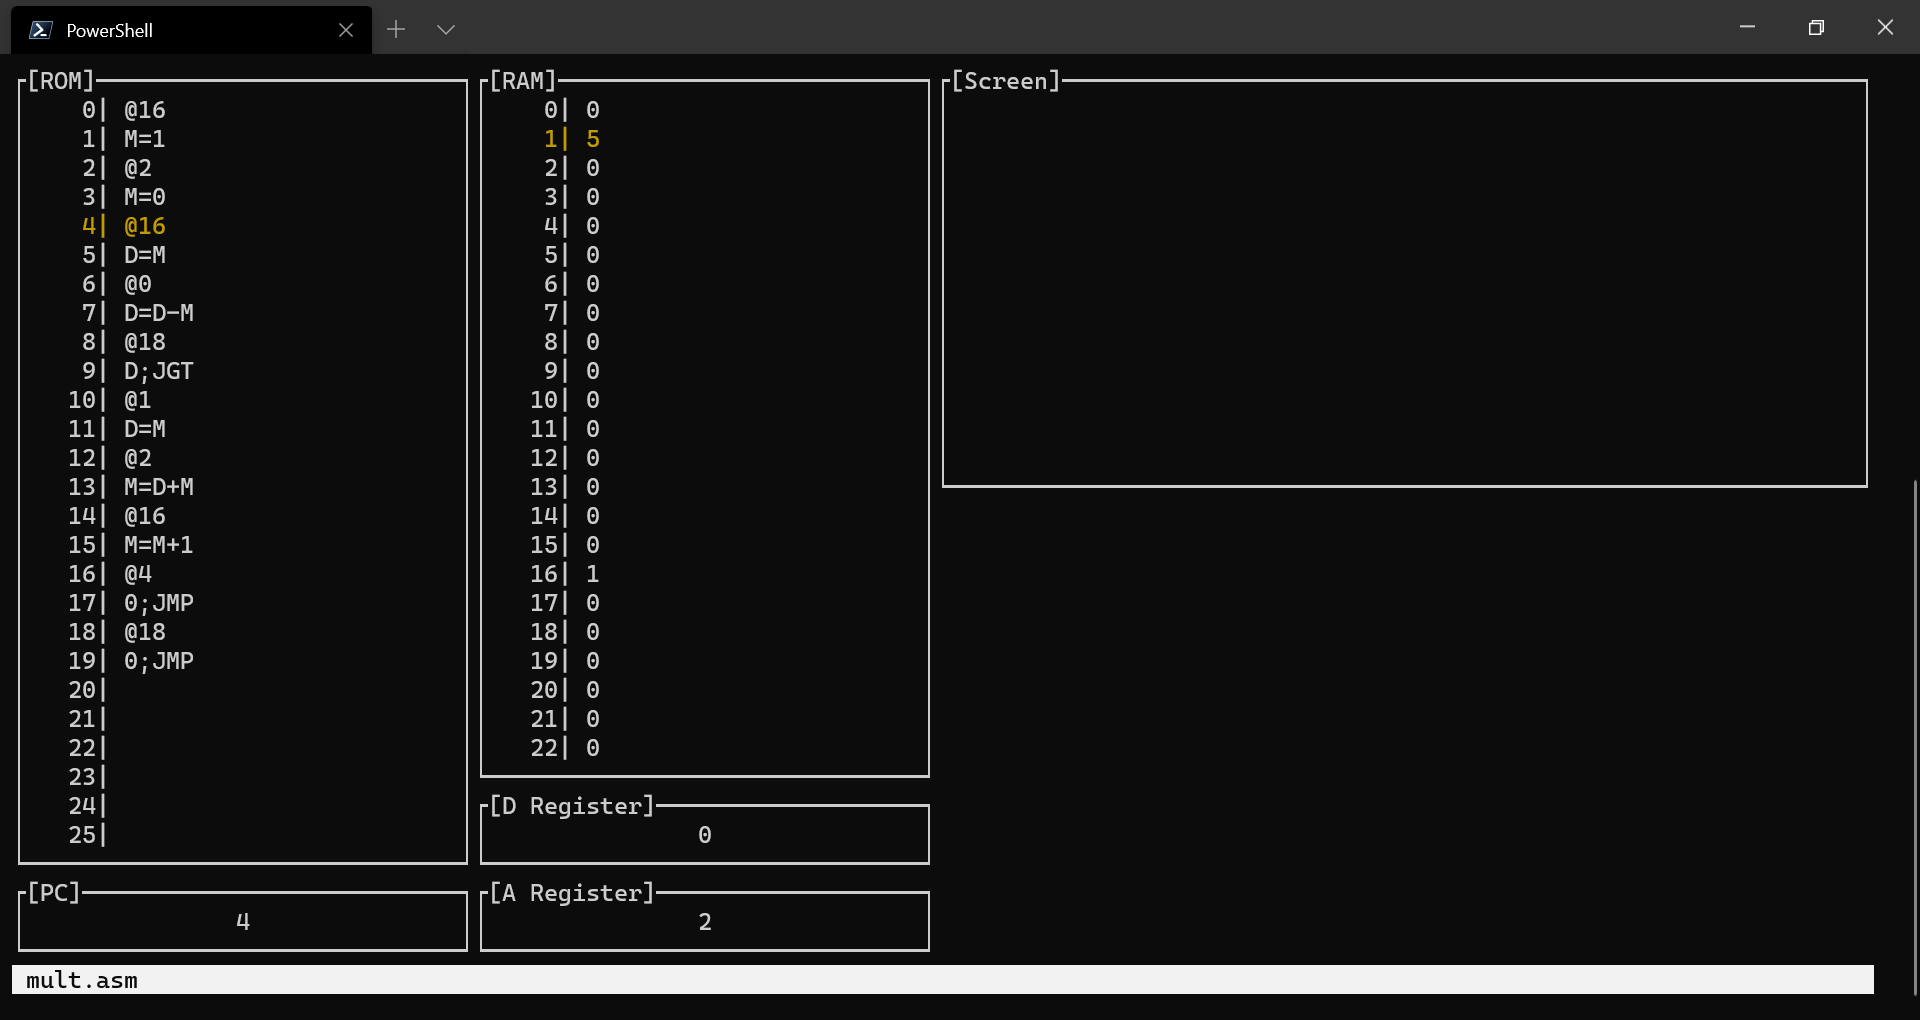
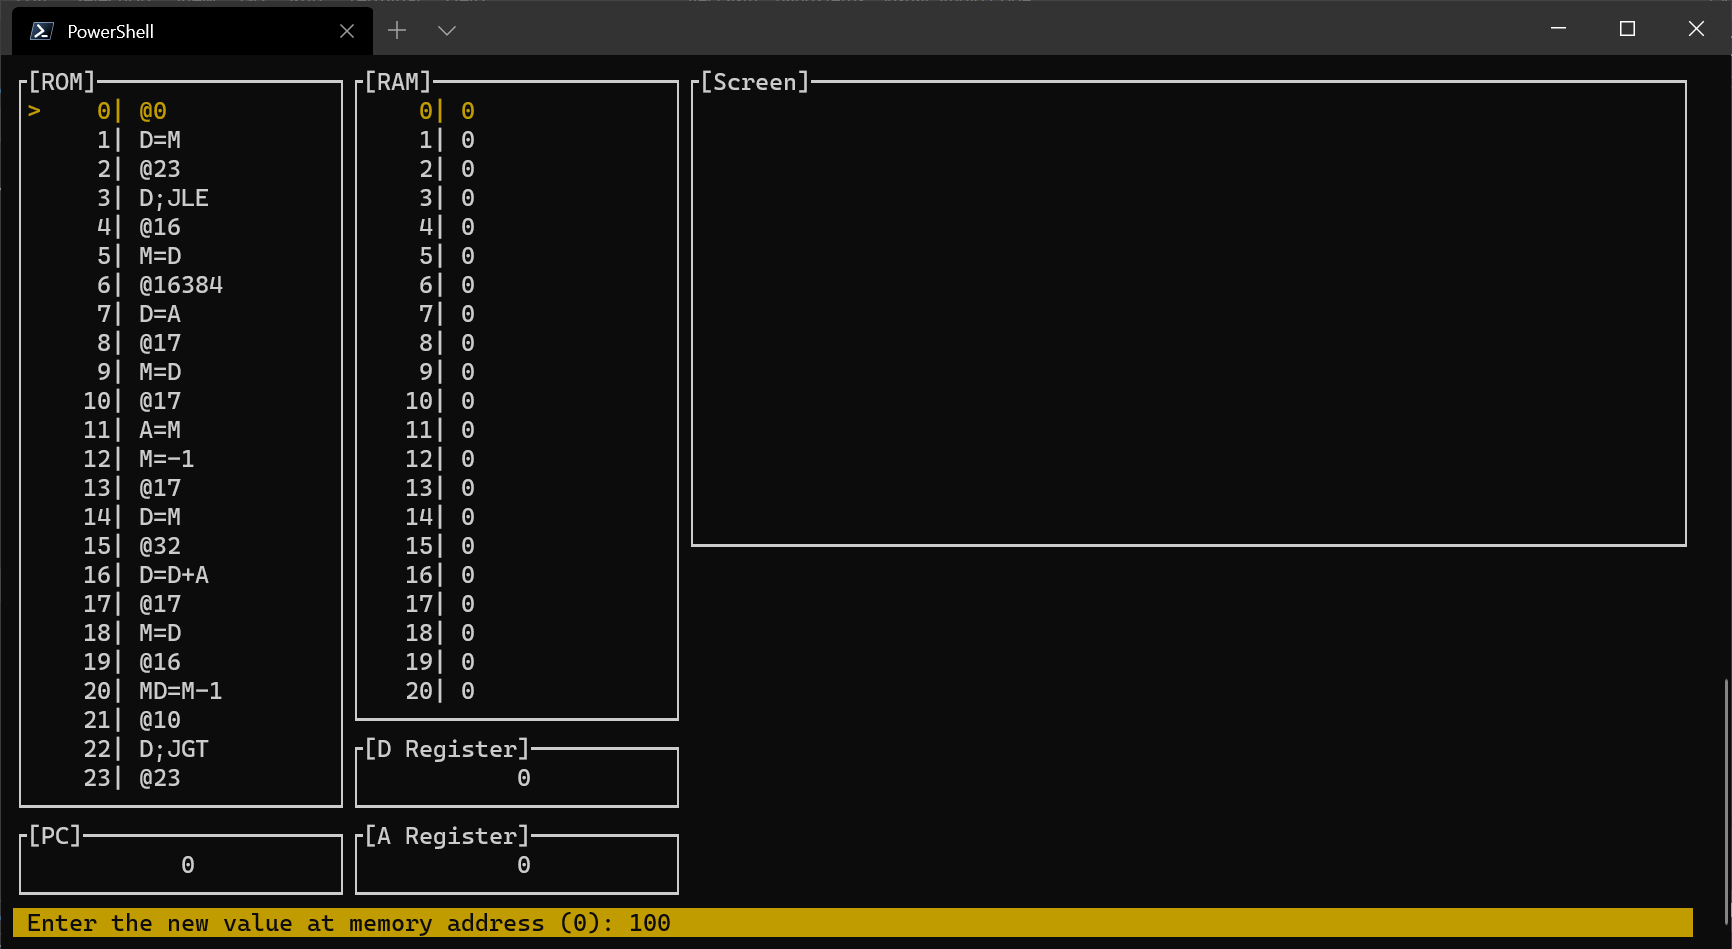
finalize screen support

Changed region(s): [[0.0, 0.0, 1.0, 1.0], [0.4053, 0.5501, 0.9665, 0.5806]]

diff --git a/src/app.rs b/src/app.rs
@@ -5,8 +5,9 @@ use tui::style::{Style, Color};
 use tui::{Frame, backend};
 use crossterm::event::KeyCode;
 
-use crate::computer::Computer;
+use crate::computer::{Computer, SCR_ADDRESS, KBD_ADDRESS};
 use crate::assembler::to_asm;
+use crate::utils::get_bit;
 
 #[derive(Eq, PartialEq)]
 enum InputMode {
@@ -91,7 +92,7 @@ impl App {
                         }
                     }
                 }
-                KeyCode::Char('i') => {
+                KeyCode::Char('r') => {
                     self.input_mode = InputMode::Editing;
                 }
                 KeyCode::Char('q') => {
@@ -163,19 +164,7 @@ impl App {
             .block(Block::default().title("[PC]").borders(Borders::ALL))
             .alignment(Alignment::Center);
 
-        let mut coords = vec![];
-        let mut n = 0;
-        for word in self.computer.memory.iter() {
-            if *word != 0 {
-                let x = (n % 512) as f64;
-                let y = (256 - 1 - (n / 512)) as f64;
-                for i in 0..16 {
-                    coords.push((x + (i as f64), y));
-                }
-            }
-            n += 16;
-        }
-        let dots = Points {coords: &coords, color: Color::White};
+        let dots = Points {coords: &self.get_screen_dots(), color: Color::White};
         let screen_block = Canvas::default()
             .block(Block::default().borders(Borders::ALL).title("[Screen]"))
             .paint(|ctx| {
@@ -217,5 +206,23 @@ impl App {
             f.render_widget(screen_block, column3[0]);
             f.render_widget(command_input, rows[1]);
         }
+    }
+
+    fn get_screen_dots(&self) -> Vec<(f64, f64)> {
+        let mut coords = vec![];
+        let mut n = 0;
+        for word in self.computer.memory[SCR_ADDRESS..KBD_ADDRESS].iter() {
+            if *word != 0 {
+                let x = (n % 512) as f64;
+                let y = (256 - 1 - (n / 512)) as f64;
+                for i in 0..16 {
+                    if get_bit(*word, i) {
+                        coords.push((x + (i as f64), y));
+                    }
+                }
+            }
+            n += 16;
+        }
+        coords
     }
 }

diff --git a/src/computer.rs b/src/computer.rs
@@ -1,11 +1,14 @@
 use crate::utils::{get_bit, get_bit_slice};
 
+pub const KBD_ADDRESS: usize = 24_576;
+pub const SCR_ADDRESS: usize = 16_384;
+
 pub struct Computer {
     pub d_register: i16,
     pub a_register: i16,
     pub pc: i16,
     pub rom: [Option<i16>; 1000],
-    pub memory: [i16; 8_192]
+    pub memory: [i16; 24_577]
 }
 
 impl Computer {
@@ -15,7 +18,7 @@ impl Computer {
             a_register: 0,
             pc: 0,
             rom: [None; 1000],
-            memory: [0; 8_192]
+            memory: [0; 24_577]
         }
     }
 

diff --git a/README.md b/README.md
@@ -11,7 +11,7 @@ hack-cpu-emulator.exe <assembly file>
 ```
 
 ## Todos
-- [ ] Implement screen widget
+- [x] Implement screen widget
 - [ ] Introduce keyboard inputMode
 - [ ] Support toggling between view modes (binary, hex, decimal, asm)
 
